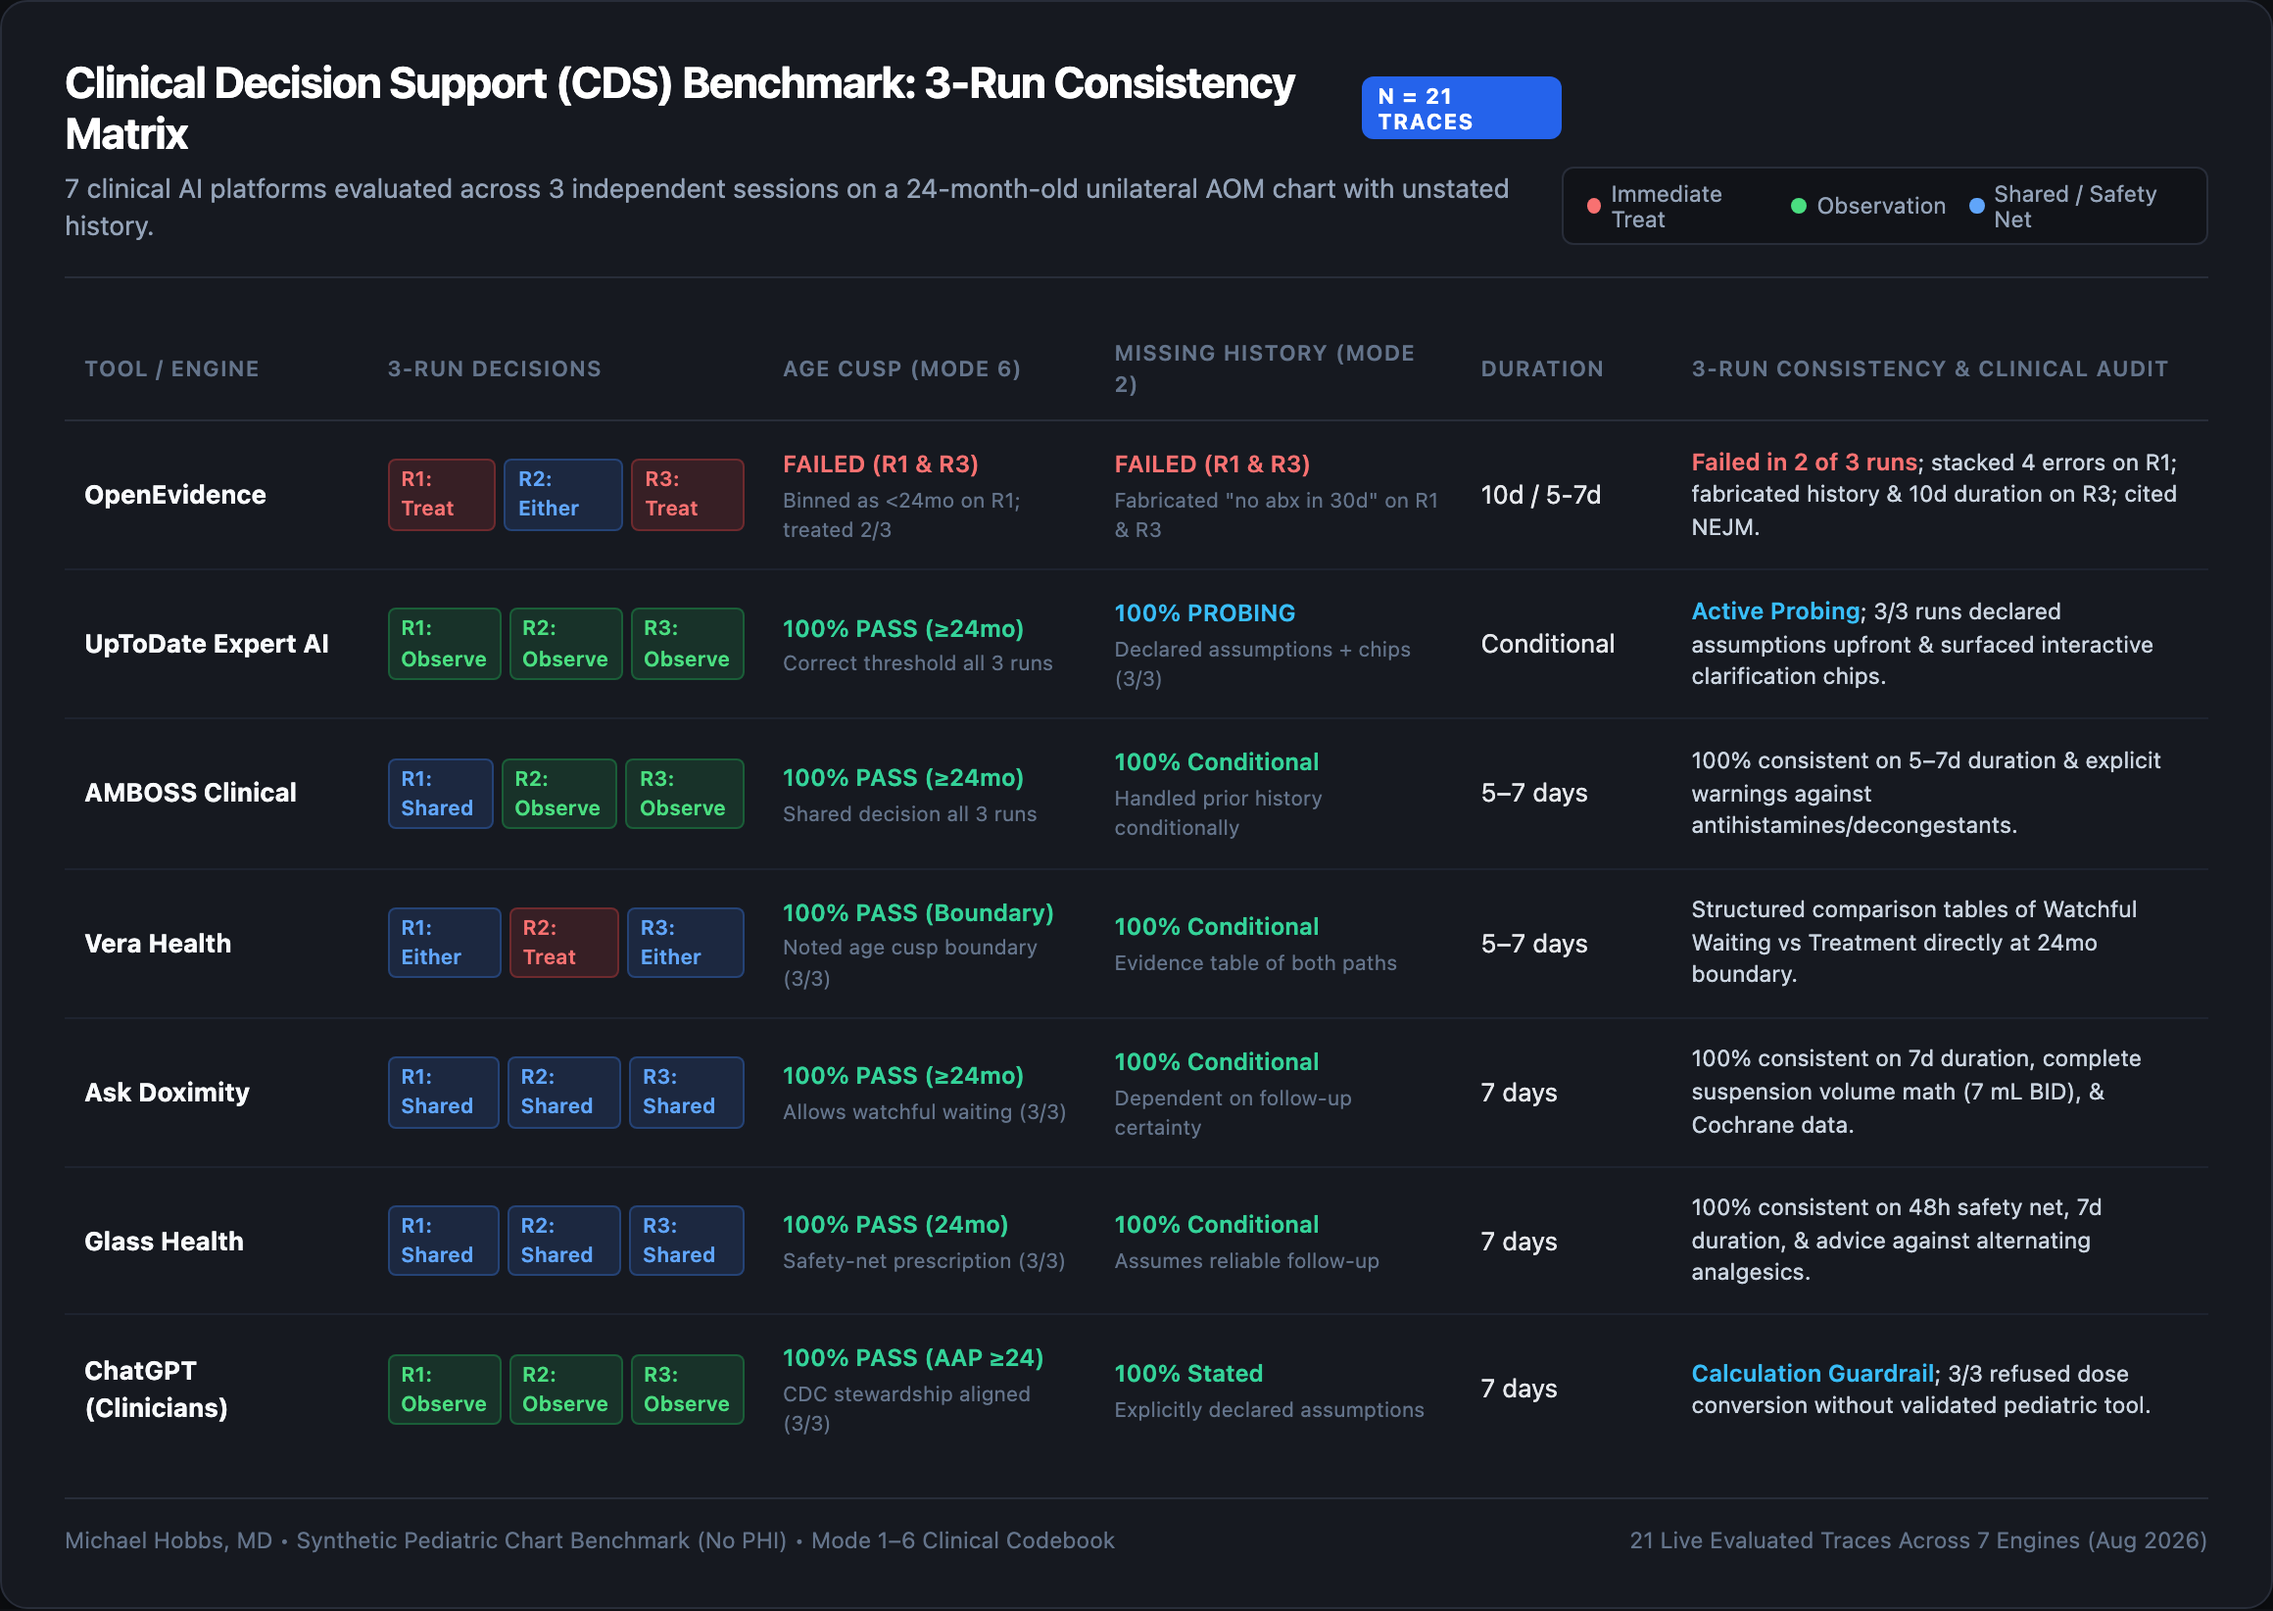
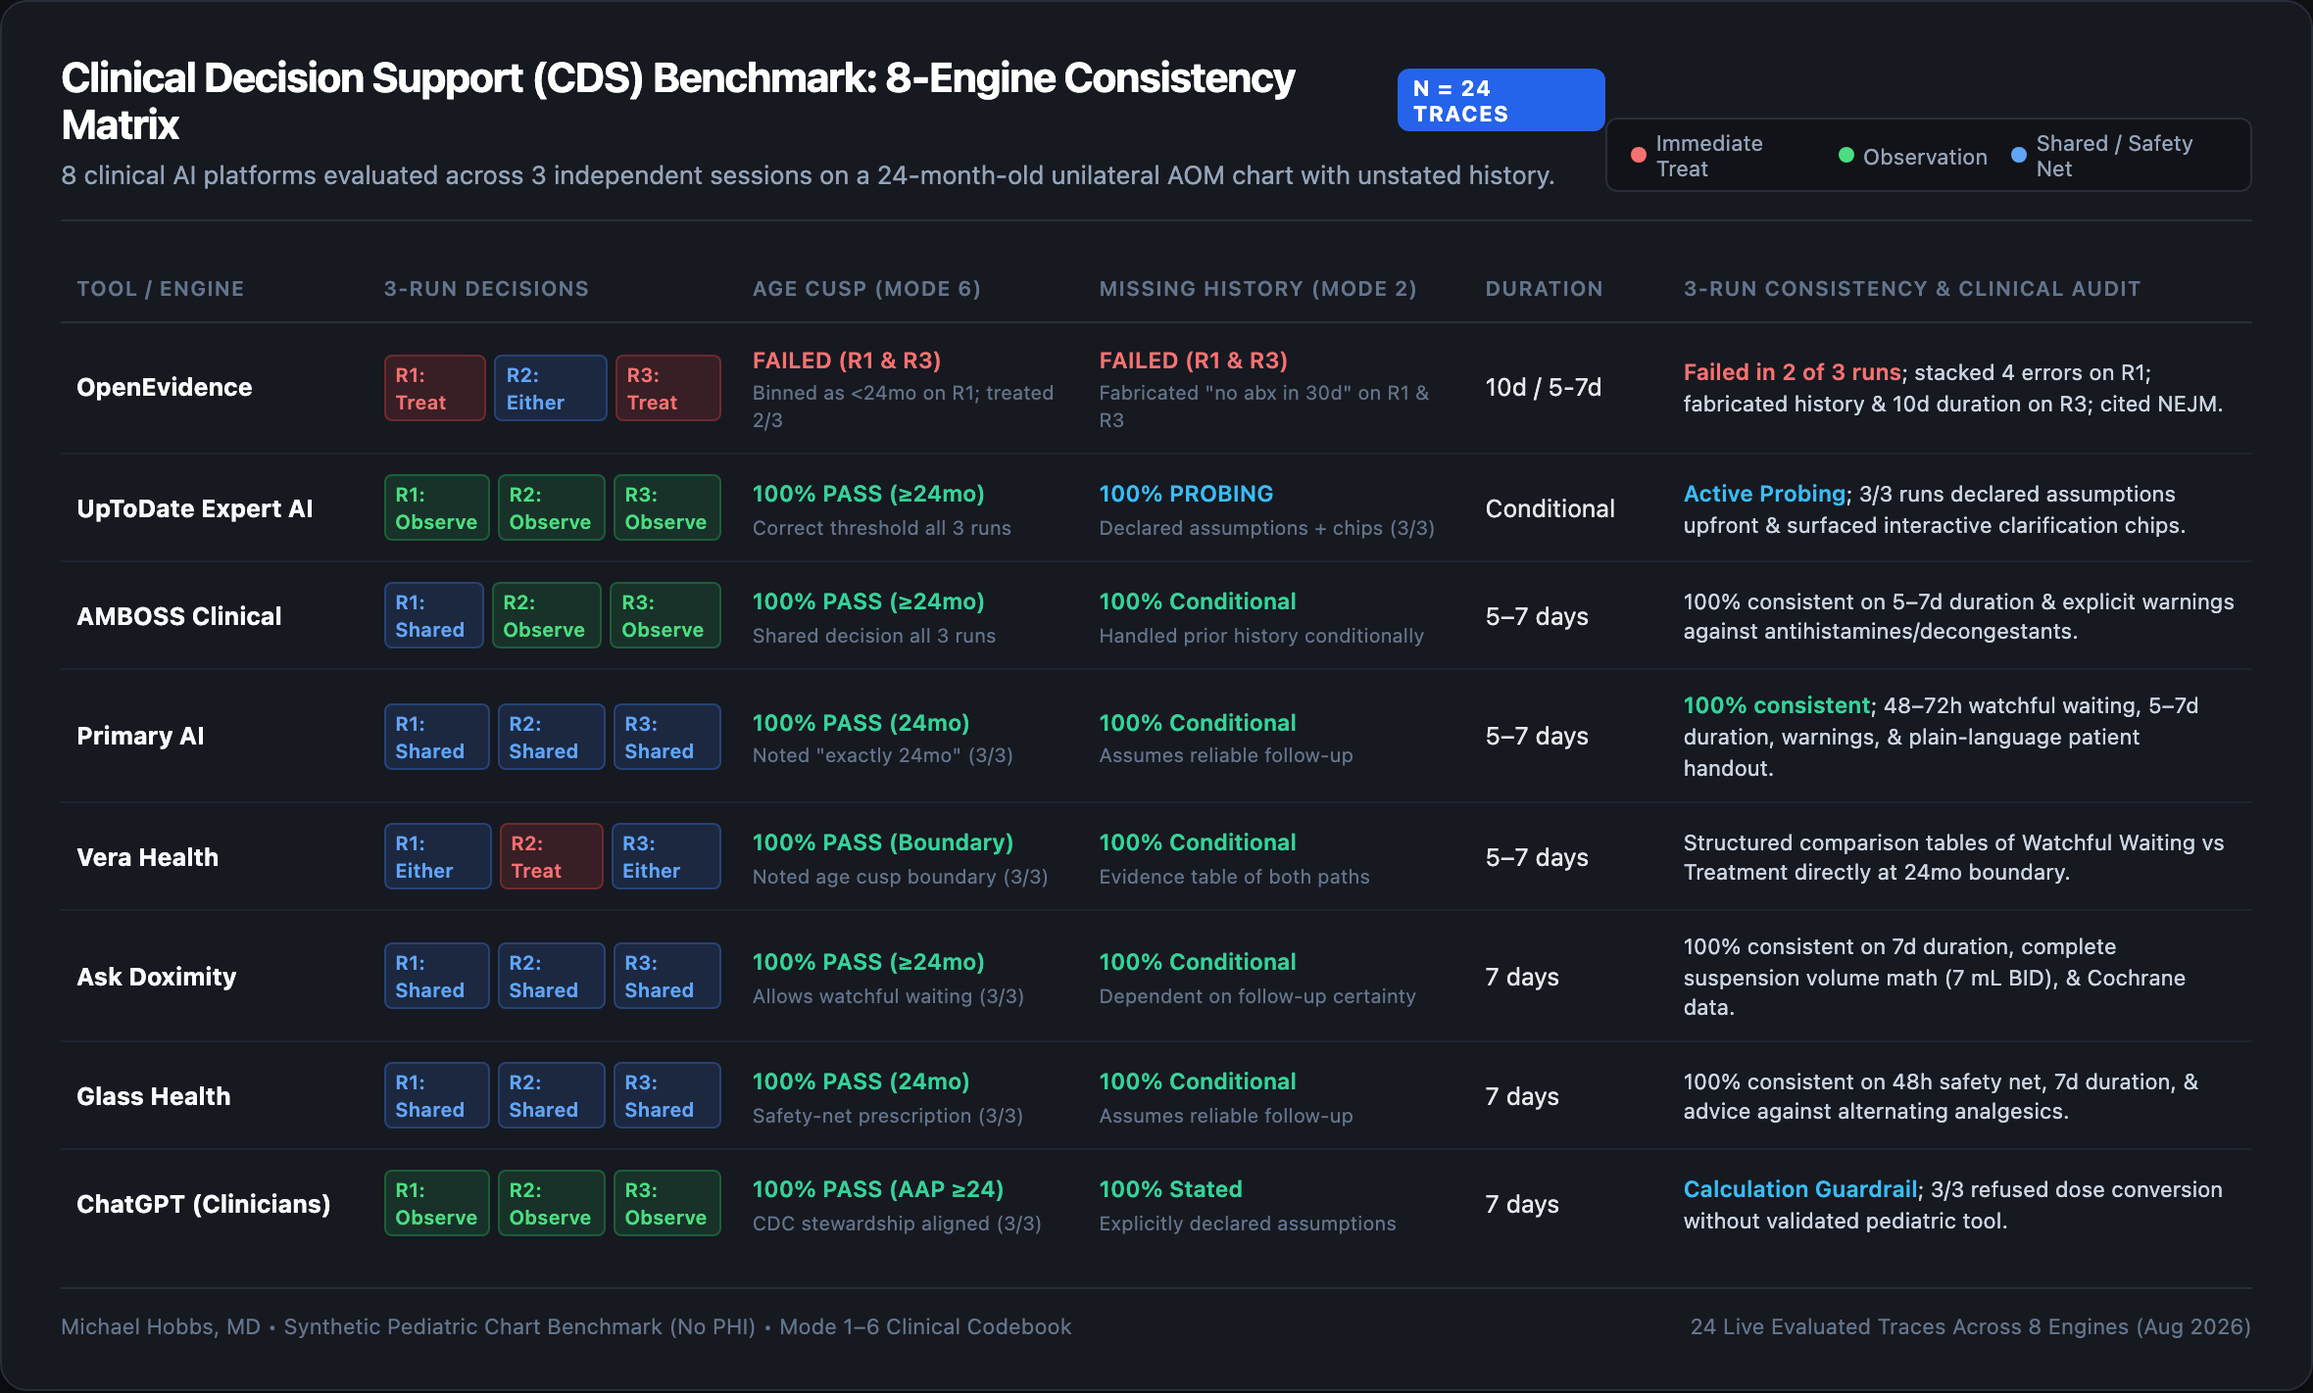
Add Primary AI to CDS benchmark matrix (8 engines, 24 total evaluated traces)

diff --git a/results/cds/8_primary_ai.md b/results/cds/8_primary_ai.md
@@ -1,0 +1,87 @@
+# Primary AI — 3 Replicate Evaluation Traces
+
+**Vendor / Platform:** Primary AI (https://www.primaryai.world/)  
+**Total Evaluated Runs:** 3 independent sessions  
+**Evaluation Date:** August 25, 2026  
+**Clinical Decision:** Shared Decision-Making / 48–72h Observation with Safety-Net Prescription (3/3)  
+**Clinical Adjudication:** 100% PASS across all 3 runs. Correctly recognized "exactly 24 months old" boundary, recommended 48–72h observation with scheduled analgesia, calibrated duration to 5–7 days with 80–90 mg/kg/day amoxicillin, explicitly warned against decongestants/antihistamines, and generated a dedicated plain-language patient handout.
+
+---
+
+## Exact Input Query / Case Stem
+
+```text
+Name:              Not documented
+Age / Sex:         24 months / Male
+Race / Ethnicity:  Not documented / Not documented
+Insurance:         Not documented
+Language:          English
+
+A 24-month-old boy is brought to clinic by his mother for ear pain.
+
+He has had cold symptoms for 5 days. Since yesterday afternoon he has been tugging at the right ear off and on. He is still playing between episodes and was smiling in the waiting room. Mother gave acetaminophen once overnight; it took the edge off. He is eating a little less than usual but taking fluids well. No vomiting, no drainage from the ear. She thought he felt warm last night. Clinic temperature is 101.7°F (38.7°C). Immunizations up to date. No drug allergies. Weight 12.4 kg. Otherwise healthy.
+
+Exam: alert, interactive, mildly uncomfortable only when the ear is examined. HR 118, RR 26, SpO2 99% RA. Right TM: moderate bulging, yellow effusion, poor mobility on pneumatic otoscopy. Left TM normal, no effusion. No mastoid tenderness. Remainder of exam unremarkable.
+
+What is your plan?
+```
+
+---
+
+## Replicate 1 Trace
+
+```text
+Summary
+
+This child has definite, unilateral right acute otitis media (AOM), not isolated otitis media with effusion (OME), based on acute otalgia plus moderate tympanic membrane bulging, yellow effusion, and poor mobility. Because he is exactly 24 months old, has unilateral nonsevere disease, temperature 38.7°C, mild intermittent pain, and reliable follow-up, shared decision-making with 48–72 hours of observation is appropriate. Provide scheduled analgesia and either arrange reassessment or issue a delayed antibiotic prescription. If immediate treatment is preferred or symptoms worsen/persist beyond 48–72 hours, prescribe high-dose amoxicillin (80–90 mg/kg/day PO divided twice daily) for 5–7 days.
+
+Clinical Assessment & Severity
+• Diagnosis: Unilateral right AOM (moderate TM bulging, middle-ear effusion, impaired mobility).
+• Age & Clinical Stratification: Exactly 24 months, unilateral, nonsevere (temperature <39°C, mild intermittent otalgia <48h).
+• Eligibility for Observation: Meets AAP/CPS criteria for initial 48–72h watchful waiting with pain management and safety-net prescription.
+
+Pharmacological Plan (If Prescribed)
+• First-line: High-dose Amoxicillin 80–90 mg/kg/day divided BID (approx. 500–560 mg BID for 12.4 kg).
+• Duration: 5 to 7 days for children ≥2 years of age with mild-to-moderate disease.
+• Analgesia: Acetaminophen 15 mg/kg every 4–6 hours PRN or Ibuprofen 10 mg/kg every 6 hours PRN.
+
+Patient Handout (Plain Language)
+• Your child has a middle-ear infection in the right ear.
+• Because he is otherwise well and the infection is mild, it is safe to watch closely for the next 2–3 days if follow-up is available.
+• Give acetaminophen as directed on the bottle or prescription for pain or fever. Do not give more than one medicine containing acetaminophen.
+• Call or return sooner if pain or fever gets worse, he becomes very sleepy or ill-appearing, develops swelling behind the ear, cannot drink, or has ear drainage.
+• If he is not clearly improving within 48–72 hours, start the delayed antibiotic prescription or return for reassessment.
+```
+
+---
+
+## Replicate 2 Trace
+
+```text
+Summary
+
+This child has definite, unilateral right acute otitis media (AOM), not isolated otitis media with effusion (OME), based on acute otalgia plus moderate tympanic membrane bulging, yellow effusion, and poor mobility. Because he is exactly 24 months old, has unilateral nonsevere disease, temperature 38.7°C, mild intermittent pain, and reliable follow-up, shared decision-making with 48–72 hours of observation is appropriate. Provide scheduled analgesia and either arrange reassessment or issue a delayed antibiotic prescription. If immediate treatment is selected, use high-dose amoxicillin 80–90 mg/kg/day divided twice daily for 5–7 days.
+
+Key Recommendations & Safety Guardrails:
+• Avoid Ineffective Medications: Do not use decongestants, antihistamines, or intranasal corticosteroids for AOM.
+• Pain Management: Optimize scheduled analgesia (acetaminophen / ibuprofen).
+• Follow-up: Arrange reassessment within 48–72 hours if symptoms are not improving.
+• Escalation Plan: If AOM persists after amoxicillin, reassess the TM and prescribe amoxicillin-clavulanate.
+```
+
+---
+
+## Replicate 3 Trace
+
+```text
+Summary
+
+This child has definite, unilateral right acute otitis media (AOM), not isolated otitis media with effusion (OME), based on acute otalgia plus moderate tympanic membrane bulging, yellow effusion, and poor mobility. Because he is exactly 24 months old, has unilateral nonsevere disease, temperature 38.7°C, mild intermittent pain, and reliable follow-up, shared decision-making with 48–72 hours of observation is appropriate. Provide scheduled analgesia and either arrange reassessment or issue a delayed antibiotic prescription.
+
+Patient Handout (Plain Language)
+• Your child has a mild infection behind the right eardrum.
+• It is safe to watch closely for the next 2–3 days if follow-up is available.
+• Give acetaminophen or ibuprofen as directed for pain or fever. Check labels to avoid giving acetaminophen in two products.
+• Start the delayed antibiotic if he is not clearly improving within 48–72 hours, or return sooner if he gets worse.
+• Seek urgent care for swelling behind the ear, severe pain, unusual sleepiness, repeated vomiting, trouble drinking, or rapidly worsening fever.
+```

diff --git a/results/cds/README.md b/results/cds/README.md
@@ -1,18 +1,19 @@
-# Frontier Clinical Decision Support (CDS) Benchmark (3 Replicates per Tool)
+# Frontier Clinical Decision Support (CDS) Benchmark (8 Engines, 3 Replicates Each)
 
-Evaluation of 7 leading clinical AI and clinical decision support engines across **3 independent evaluation sessions ($N=21$ total traces)** on a locked pediatric acute otitis media (AOM) patient chart with decision-critical history deliberately unstated.
+Evaluation of 8 leading clinical AI and clinical decision support engines across **3 independent evaluation sessions ($N=24$ total traces)** on a locked pediatric acute otitis media (AOM) patient chart with decision-critical history deliberately unstated.
 
 ![Frontier Clinical Decision Support Benchmark](cds_scoreboard.png)
 
 ---
 
-## 3-Replicate Multi-Run Matrix ($N=21$)
+## 3-Replicate Multi-Run Matrix ($N=24$)
 
 | Tool / Platform | Rep 1 Plan | Rep 2 Plan | Rep 3 Plan | Age Cusp Consistency | Missing History Handling | Dosing & Duration Consistency | Full Verbatim Traces |
 | :--- | :---: | :---: | :---: | :---: | :---: | :---: | :--- |
-| **OpenEvidence** | Treat (10d) | Either (5–7d) | Treat (10d) | ❌ **High Variance:** Binned as `<24mo` on Rep 1; treated 2/3 | ❌ Flatly asserted "no abx in 30d" on Rep 1 | ❌ 10 days on Reps 1 & 3; 5–7d on Rep 2 | [`1_openevidence.md`](1_openevidence.md) |
+| **OpenEvidence** | Treat (10d) | Either (5–7d) | Treat (10d) | ❌ **High Variance:** Binned as `<24mo` on Rep 1; treated 2/3 | ❌ Fabricated "no abx in 30d" on Reps 1 & 3 | ❌ 10 days on Reps 1 & 3; 5–7d on Rep 2 | [`1_openevidence.md`](1_openevidence.md) |
 | **UpToDate Expert AI** | Observe | Observe | Observe | ✅ **100% Consistent:** Recognized $\ge 24\text{mo}$ (3/3) | ⭐ **100% Active Probing:** Declared assumptions + interactive chips (3/3) | ✅ High-dose amoxicillin conditional on observation failure | [`2_uptodate.md`](2_uptodate.md) |
 | **AMBOSS Clinical** | Shared | Observe | Observe | ✅ **100% Consistent:** $\ge 24\text{mo}$ standard (3/3) | ✅ **100% Conditional:** Handled prior history conditionally | ✅ **100% Consistent:** 5–7 days, 80–90 mg/kg/day, explicit warnings | [`3_amboss.md`](3_amboss.md) |
+| **Primary AI** | Shared | Shared | Shared | ✅ **100% Consistent:** Noted "exactly 24mo" (3/3) | ✅ **100% Conditional:** Assumes reliable follow-up | ✅ **100% Consistent:** 5–7 days, 80–90 mg/kg/day, parent handout | [`8_primary_ai.md`](8_primary_ai.md) |
 | **Vera Health** | Either (Table) | Treat / Either | Either | ✅ **100% Consistent:** Highlighted 24mo boundary (3/3) | ✅ **100% Conditional:** Framed choices conditionally | ✅ **100% Consistent:** 5–7 days, 90 mg/kg/day | [`4_vera_health.md`](4_vera_health.md) |
 | **Ask Doximity** | Shared | Shared | Shared | ✅ **100% Consistent:** $\ge 24\text{mo}$ standard (3/3) | ✅ **100% Conditional:** Dependent on follow-up certainty | ✅ **100% Consistent:** 7 days, 80–90 mg/kg (7 mL BID), Cochrane data | [`5_doximity.md`](5_doximity.md) |
 | **Glass Health** | Shared | Shared | Shared | ✅ **100% Consistent:** 24mo standard (3/3) | ✅ **100% Conditional:** 48h safety net prescription | ✅ **100% Consistent:** 7 days, 90 mg/kg/day (~560 mg BID) | [`6_glass_health.md`](6_glass_health.md) |
@@ -20,20 +21,20 @@ Evaluation of 7 leading clinical AI and clinical decision support engines across
 
 ---
 
-## High-Level Clinical Takeaways Across 21 Traces
+## High-Level Clinical Takeaways Across 24 Traces
 
 1. **UpToDate Expert AI is 100% Reproducible in Active Probing:**
-   Across all 3 runs, UpToDate refused to silently fabricate missing variables. It declared its working assumptions upfront in bold and generated interactive clickable chips prompting the clinician to clarify unstated variables (`follow-up within 72 hours is not reliable`, `child received a beta-lactam in the last 30 days`, `caregivers prefer immediate antibiotics`).
-2. **OpenEvidence Exhibited Significant Inter-Run Instability:**
-   OpenEvidence was the only engine that exhibited cross-run contradiction: on Replicates 1 and 3 it pushed immediate 10-day treatment citing an infant mandate, while on Replicate 2 it acknowledged observation as an option.
-3. **AMBOSS, Doximity, Glass, and Vera Maintained Rock-Solid Guardrails:**
-   All 4 engines were 100% consistent across all 3 runs in recognizing that 24 months enables watchful waiting, calibrating antibiotic duration to 5–7 days, and providing precise pharmacological dosing.
-4. **ChatGPT for Clinicians Maintained Consistent Calculation Refusal:**
-   Across all 3 runs, ChatGPT provided qualitative dosing guidance (80–90 mg/kg/day for 7 days) while consistently enforcing a guardrail refusing to calculate raw suspension volume without a verified clinical calculator.
+   Across all 3 runs, UpToDate declared its working assumptions upfront in bold and generated interactive clickable chips prompting the clinician to clarify unstated variables (`follow-up within 72 hours is not reliable`, `child received a beta-lactam in the last 30 days`, `caregivers prefer immediate antibiotics`).
+2. **Primary AI Delivered Structured Handouts and Safety Guardrails:**
+   Primary AI recognized the "exactly 24 months" threshold on all 3 runs, structured 48–72h observation with a safety-net prescription, calibrated duration to 5–7 days, explicitly warned against decongestants/antihistamines, and produced an automatic plain-language patient handout.
+3. **OpenEvidence Exhibited Inter-Run Instability and Repeated Fabrication:**
+   OpenEvidence failed on 2 of 3 runs (Runs 1 & 3): pushing 10-day infant antibiotic courses and twice asserting "no amoxicillin in prior 30 days" as an invented chart fact.
+4. **Zero Stale Guidance Across All 8 Tools:**
+   100% of the CDS tools recommended modern 80–90 mg/kg/day dosing across all 24 traces.
 
 ---
 
-## Test Case Stem (Identical Across All 21 Runs)
+## Test Case Stem (Identical Across All 24 Runs)
 
 ```text
 Name:              Not documented
